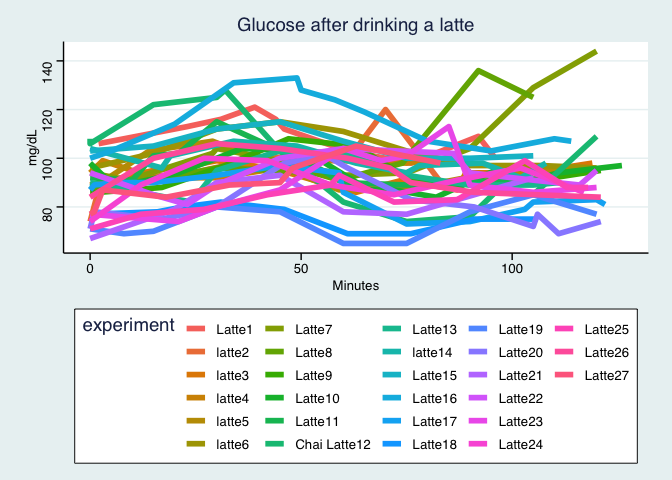
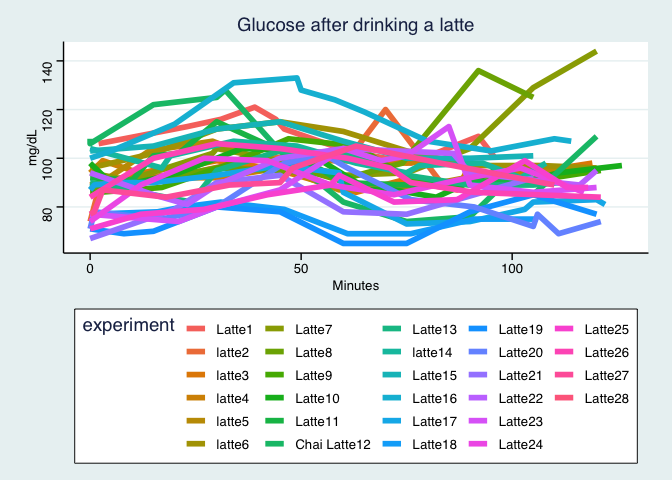
Updated data

diff --git a/README.md b/README.md
@@ -1,7 +1,7 @@
 Continuous Glucose Monitoring with Freestyle Libre
 ================
 Richard Sprague
-2019-01-21
+2019-01-22
 
 See [Continous Glucose Monitoring: Start Here](http://richardsprague.com/notes/continuous-glucose-monitoring/)
 
@@ -208,6 +208,7 @@ Here's how I look when eating specific foods:
 | Latte25      |          99|          71|      28|
 | Latte26      |         106|          84|      22|
 | Latte27      |         105|          77|      28|
+| Latte28      |          88|          88|       0|
 
 ![](README_files/figure-markdown_github/unnamed-chunk-7-16.png)
 
@@ -244,7 +245,7 @@ glucose %>% filter(apply(sapply(glucose$time,
     ## ------------------------------------------------------------------------- 
     ## Describe . (tbl_df, tbl, data.frame):
     ## 
-    ## data.frame:  807 obs. of  1 variables
+    ## data.frame:  837 obs. of  1 variables
     ## 
     ##   Nr  ColName  Class    NAs  Levels
     ##   1   value    numeric  .          
@@ -254,17 +255,17 @@ glucose %>% filter(apply(sapply(glucose$time,
     ## Glucose Values While Sleeping
     ## 
     ##   length       n    NAs  unique     0s   mean  meanCI
-    ##      807     807      0      81      0  79.87   78.91
-    ##           100.0%   0.0%           0.0%          80.83
+    ##      837     837      0      81      0  79.95   79.01
+    ##           100.0%   0.0%           0.0%          80.90
     ##                                                      
     ##      .05     .10    .25  median    .75    .90     .95
-    ##    54.00   63.00  72.00   81.00  87.00  96.40  102.00
+    ##    54.80   63.00  72.00   80.00  87.00  96.40  102.00
     ##                                                      
     ##    range      sd  vcoef     mad    IQR   skew    kurt
-    ##    92.00   13.93   0.17   10.38  15.00  -0.10    1.00
+    ##    92.00   13.92   0.17   10.38  15.00  -0.04    1.13
     ##                                                      
     ## lowest : 40.0 (3), 41.0 (4), 42.0 (3), 43.0 (2), 44.0
-    ## highest: 120.0, 121.0, 125.0, 131.0, 132.0
+    ## highest: 120.0, 121.0, 125.0, 131.0, 132.0 (2)
 
 ![](README_files/figure-markdown_github/unnamed-chunk-8-1.png)
 
@@ -279,7 +280,7 @@ glucose %>% filter(apply(sapply(glucose$time,
     ## ------------------------------------------------------------------------- 
     ## Describe . (tbl_df, tbl, data.frame):
     ## 
-    ## data.frame:  2958 obs. of  1 variables
+    ## data.frame:  3052 obs. of  1 variables
     ## 
     ##   Nr  ColName  Class    NAs        Levels
     ##   1   value    numeric  17 (0.6%)        
@@ -289,14 +290,14 @@ glucose %>% filter(apply(sapply(glucose$time,
     ## Glucose Values While Awake
     ## 
     ##   length      n    NAs  unique      0s    mean  meanCI
-    ##    2'958  2'941     17     120       0   91.03   90.34
-    ##           99.4%   0.6%            0.0%           91.73
+    ##    3'052  3'035     17     120       0   91.03   90.35
+    ##           99.4%   0.6%            0.0%           91.71
     ##                                                       
     ##      .05    .10    .25  median     .75     .90     .95
     ##    63.00  69.00  79.00   89.00  101.00  116.00  127.00
     ##                                                       
     ##    range     sd  vcoef     mad     IQR    skew    kurt
-    ##   151.00  19.23   0.21   16.31   22.00    0.60    1.06
+    ##   151.00  19.10   0.21   16.31   22.00    0.60    1.08
     ##                                                       
     ## lowest : 40.0 (3), 41.0 (4), 42.0 (3), 43.0 (2), 44.0 (5)
     ## highest: 166.0 (2), 172.0, 187.0, 188.0, 191.0
